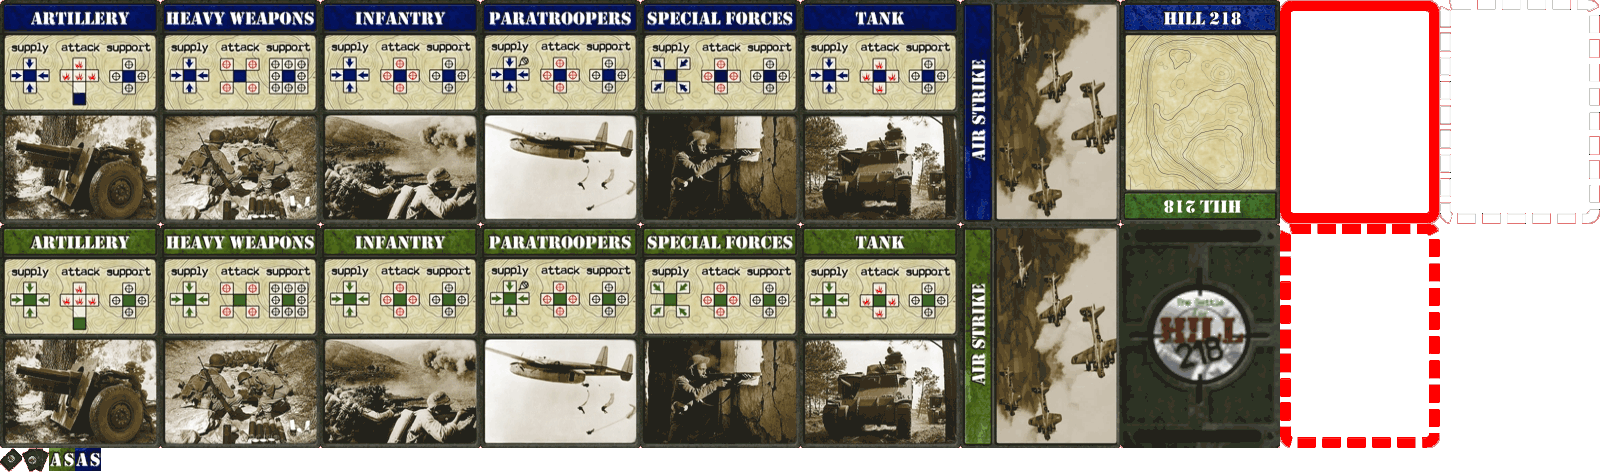
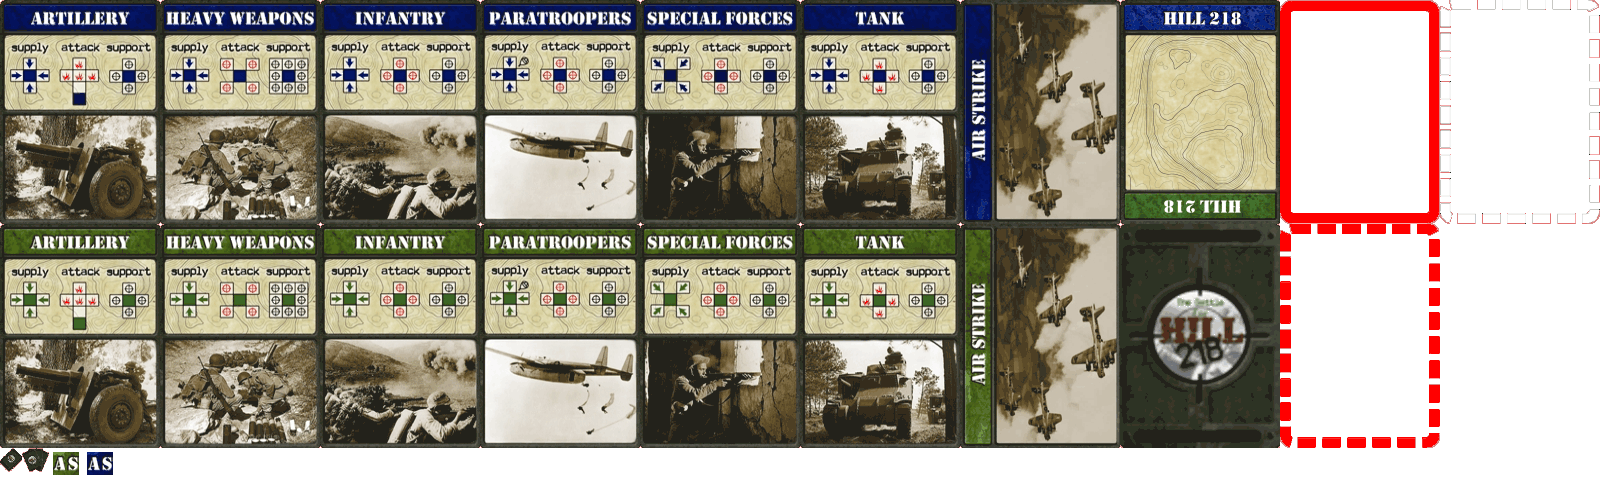
General UI changes and move air strikes to player board

diff --git a/battleforhilldhau.js b/battleforhilldhau.js
@@ -44,28 +44,22 @@ function (dojo, declare, lang, dom, query, array, domConstruct, domClass, domGeo
             for (var id in players) {
                 if (players.hasOwnProperty(id)) {
                     var player = players[id];
-                    if (id.toString() === this.player_id.toString()) {
-                        this.setupCurrentPlayerCards(player);
-                    }
                     dojo.place(this.format_block('jstpl_counter_icons', {}), this.getPlayerBoardNode(id));
                     this.updateDeckCount(id, player.deckSize);
                     this.updateHandCount(id, player.handSize);
                     this.updateAirStrikeCount(id, player.numAirStrikes);
+                    if (id.toString() === this.player_id.toString()) {
+                        this.setupCurrentPlayerCards(player);
+                    }
                 }
             }
         },
 
         setupCurrentPlayerCards: function(data) {
-            var cardsContainer = this.getCurrentPlayerCardsNode();
-
             // Air strikes
-            var airStrikeCards = array.filter(data.cards, function(card) { return card.type === 'air-strike'; });
-            array.forEach(airStrikeCards, lang.hitch(this, function(card) {
-                dojo.place(
-                    this.createCurrentPlayerAirStrikeCard(card, data.color),
-                    query(cardsContainer).query('.air-strikes').pop()
-                );
-            }));
+            var airStrikeIds = array.filter(data.cards, function(card) { return card.type === 'air-strike'; })
+                .map(function(card) { return card.id; });
+            this.getAirStrikeDeckNodeList(this.player_id).data('ids', airStrikeIds);
 
             // Hand
             var handCards = array.filter(data.cards, function(card) { return card.type !== 'air-strike'; });
@@ -120,13 +114,16 @@ function (dojo, declare, lang, dom, query, array, domConstruct, domClass, domGeo
 
         onEnterPlayCard: function(possiblePlacementsByCardId) {
             this.possiblePlacementsByCardId = possiblePlacementsByCardId;
-            this.enablePlayableCardsClick(
+
+            this.enableHandCardsClick(
                 this.onHandCardPlayClick,
+                // TODO: Change to jstpl once refactor in a way that can
                 '<div>\
                     <strong>Play this card on the battlefield</strong>\
                     <div class="tooltip-card {cardType} color-{cardColor}"></div>\
                 </div>',
-                'Deselect this card'
+                'Deselect this card',
+                true
             );
 
             var _this = this;
@@ -134,6 +131,18 @@ function (dojo, declare, lang, dom, query, array, domConstruct, domClass, domGeo
                 '.battlefield-position.clickable:click',
                 function() { lang.hitch(_this, _this.onPlacePositionClick)({target: this}); }
             );
+
+            var airStrikeNode = this.getAirStrikeDeckNodeList(this.player_id);
+            var airStrikeIds = airStrikeNode.data('ids')[0];
+            if (airStrikeIds.length > 0) {
+                airStrikeNode.addClass('clickable');
+                airStrikeNode.on('click', lang.hitch(this, function() {
+                    var remainingIds = this.getAirStrikeDeckNodeList(this.player_id).data('ids')[0];
+                    if (remainingIds.length > 0) {
+                        this.playCard(remainingIds[0]);
+                    }
+                }));
+            }
         },
 
         onEnterChooseAttack: function(possiblePlacements) {
@@ -235,8 +244,8 @@ function (dojo, declare, lang, dom, query, array, domConstruct, domClass, domGeo
             return query('#overall_player_board_' + playerId).query('.deck-count-icon').pop();
         },
 
-        getAirStrikeDeckNode: function(playerId) {
-            return query('#overall_player_board_' + playerId).query('.air-strike-count-icon').pop();
+        getAirStrikeDeckNodeList: function(playerId) {
+            return query('#overall_player_board_' + playerId).query('.air-strike-count-icon');
         },
 
         getPlayerHandCardsIconNode: function(playerId) {
@@ -255,8 +264,14 @@ function (dojo, declare, lang, dom, query, array, domConstruct, domClass, domGeo
             return query(this.getCurrentPlayerCardsNode()).query('.playable-card');
         },
 
-        getCurrentPlayerSelectedPlayableCardNodeList: function() {
-            return this.getCurrentPlayerPlayableCardNodeList().filter('.selected');
+        getCurrentPlayerSelectedCardIds: function() {
+            var selectedIds = this.getCurrentPlayerPlayableCardNodeList().filter('.selected').attr('data-id');
+            var airStrikeNodeList = this.getAirStrikeDeckNodeList(this.player_id);
+            var airStrikeIds = airStrikeNodeList.data('ids')[0];
+            if (domClass.contains(airStrikeNodeList.pop(), 'selected') && airStrikeIds.length > 0) {
+                selectedIds.push(airStrikeIds[0]);
+            }
+            return selectedIds;
         },
 
         createHiddenPlayerAirStrikeCard: function(color) {
@@ -264,9 +279,9 @@ function (dojo, declare, lang, dom, query, array, domConstruct, domClass, domGeo
             return domConstruct.toDom(this.format_block('jstpl_opponent_air_strike_card', card));
         },
 
-        createCurrentPlayerAirStrikeCard: function(card, color) {
-            var coloredCard = lang.mixin({}, card, {color: color});
-            return domConstruct.toDom(this.format_block('jstpl_air_strike_card', coloredCard));
+        createCurrentPlayerAirStrikeCard: function(color) {
+            var card = {type: 'air-strike', color: color};
+            return domConstruct.toDom(this.format_block('jstpl_air_strike_card', card));
         },
 
         createCurrentPlayerHandCard: function(card, color) {
@@ -356,15 +371,8 @@ function (dojo, declare, lang, dom, query, array, domConstruct, domClass, domGeo
 
         ///////////////////////////////////////////////////
         // Interaction utility methods
-        enableHandCardsClick: function(handler, tooltip, selectedTooltip) {
-            this.enableCardsClick(handler, '.hand-cards', tooltip, selectedTooltip);
-        },
-
-        enablePlayableCardsClick: function(handler, tooltip, selectedTooltip, tooltipIsHtml) {
-            this.enableCardsClick(handler, null, tooltip, selectedTooltip, tooltipIsHtml);
-        },
-
-        enableCardsClick: function(handler, subSelector, tooltip, selectedTooltip, tooltipIsHtml) {
+        enableHandCardsClick: function(handler, tooltip, selectedTooltip, tooltipIsHtml) {
+            var subSelector = '.hand-cards';
             var cardsContainer = this.getCurrentPlayerCardsNode();
             if (cardsContainer === null) {
                 return;
@@ -491,7 +499,7 @@ function (dojo, declare, lang, dom, query, array, domConstruct, domClass, domGeo
                 return;
             }
 
-            var selectedIds = this.getCurrentPlayerSelectedPlayableCardNodeList().attr('data-id');
+            var selectedIds = this.getCurrentPlayerSelectedCardIds();
             // TODO: Where should this business logic go?
             if (selectedIds.length !== 2) {
                 this.showMessage( _('You must select exactly 2 cards to return'), 'error');
@@ -527,21 +535,34 @@ function (dojo, declare, lang, dom, query, array, domConstruct, domClass, domGeo
 
         onHandCardPlayClick: function(e) {
             var clickedCard = e.target;
-            this.getCurrentPlayerSelectedPlayableCardNodeList().forEach(function(card) {
-                if (card !== clickedCard) {
+            this.playCard(query(clickedCard).attr('data-id')[0]);
+        },
+
+        playCard: function(cardId) {
+            this.getCurrentPlayerPlayableCardNodeList().forEach(function(card) {
+                if (query(card).attr('data-id')[0] === cardId) {
+                    query(card).toggleClass('selected');
+                } else {
                     query(card).removeClass('selected');
                 }
             });
-            query(clickedCard).toggleClass('selected');
+
+            var airStrikeNodeList = this.getAirStrikeDeckNodeList(this.player_id);
+            var airStrikeIds = airStrikeNodeList.data('ids')[0];
+            if (airStrikeIds.indexOf(cardId) >= 0) {
+                airStrikeNodeList.toggleClass('selected');
+            } else {
+                airStrikeNodeList.removeClass('selected');
+            }
 
             this.deactivateAllPlacementPositions();
-            var selectedIds = this.getCurrentPlayerSelectedPlayableCardNodeList().attr('data-id');
+            var selectedIds = this.getCurrentPlayerSelectedCardIds();
             if (selectedIds.length === 0) {
                 return;
             }
 
-            var cardId = selectedIds.pop();
-            var possiblePlacements = this.possiblePlacementsByCardId[cardId];
+            var selectedId = selectedIds.pop();
+            var possiblePlacements = this.possiblePlacementsByCardId[selectedId];
             array.forEach(
                 possiblePlacements,
                 lang.hitch(this, function(possiblePlacement) {
@@ -555,7 +576,7 @@ function (dojo, declare, lang, dom, query, array, domConstruct, domClass, domGeo
                 return;
             }
 
-            var id = this.getCurrentPlayerSelectedPlayableCardNodeList().attr('data-id').pop();
+            var id = this.getCurrentPlayerSelectedCardIds()[0];
             var position = query(e.target);
             var x = position.attr('data-x').pop();
             var y = position.attr('data-y').pop();
@@ -678,7 +699,7 @@ function (dojo, declare, lang, dom, query, array, domConstruct, domClass, domGeo
 
             var x = notification.args.x;
             var y = notification.args.y;
-            var airStrikeDeckNode = this.getAirStrikeDeckNode(playerId);
+            var airStrikeDeckNode = this.getAirStrikeDeckNodeList(playerId).pop();
             var airStrikeCard = this.createHiddenPlayerAirStrikeCard(notification.args.playerColor);
             var position = this.getOrCreatePlacementPosition(x, y);
 
@@ -691,15 +712,23 @@ function (dojo, declare, lang, dom, query, array, domConstruct, domClass, domGeo
 
         notif_iPlayedAirStrike: function(notification) {
             var cardId = notification.args.cardId;
-            var cardNode = this.getCurrentPlayerPlayableCardNodeByCardId(cardId);
+            var airStrikesNode = this.getAirStrikeDeckNodeList(this.player_id);
+            var airStrikeIds = airStrikesNode.data('ids')[0];
+            var idIndex = airStrikeIds.indexOf(cardId);
+            if (idIndex >= 0) {
+                airStrikeIds.splice(idIndex, 1);
+                airStrikesNode.data('ids', airStrikeIds);
+            }
             var x = notification.args.x;
             var y = notification.args.y;
 
             var position = this.getOrCreatePlacementPosition(x, y);
-            this.slideToObjectAndDestroy(this.prepareForAnimation(cardNode), position, SLIDE_ANIMATION_DURATION);
-            setTimeout(lang.hitch(this, function() {
-                dojo.destroy(position);
-            }), SLIDE_ANIMATION_DURATION);
+            var cardNode = this.createCurrentPlayerAirStrikeCard(notification.args.playerColor);
+            this.slideNewElementTo(airStrikesNode.pop(), cardNode, position)
+                .on('End', function() {
+                    dojo.destroy(cardNode);
+                    dojo.destroy(position);
+                });
         },
 
         notif_cardsDrawn: function(notification) {

diff --git a/battleforhilldhau.css b/battleforhilldhau.css
@@ -6,25 +6,17 @@
     overflow: hidden;
 }
 #players-panel {
-    width: 100px;
-    float: right;
+    width: auto;
 }
 #battlefield-panel {
     width: auto;
     overflow: hidden;
-    margin-right: 110px;
-}
-#battlefield-panel.spectator-view {
-    margin-right: 0;
 }
 
 /* Hands */
-.player-cards .air-strikes {
-
-}
 .player-cards .playable-card {
-    display: block;
-    margin-bottom: 4px;
+    display: inline-block;
+    margin-right: 4px;
 }
 .clickable .playable-card {
     cursor: pointer;
@@ -135,19 +127,25 @@
     background-image: url(img/cards.png);
     background-repeat: no-repeat;
 }
-#player_board_inner_3b550c .air-strike-count-icon {
+.air-strike-count-icon {
     display: inline-block;
     width: 26px;
     height: 23px;
-    background-position: -49px -448px;
+    border: 4px solid transparent;
+}
+.air-strike-count-icon.clickable {
+    cursor: pointer;
+}
+.air-strike-count-icon.clickable.selected {
+    border: 4px dashed red;
+}
+#player_board_inner_3b550c .air-strike-count-icon {
+    background-position: -53px -452px;
     background-image: url(img/cards.png);
     background-repeat: no-repeat;
 }
 #player_board_inner_04237b .air-strike-count-icon {
-    display: inline-block;
-    width: 26px;
-    height: 23px;
-    background-position: -75px -448px;
+    background-position: -87px -452px;
     background-image: url(img/cards.png);
     background-repeat: no-repeat;
 }

diff --git a/battleforhilldhau.game.php b/battleforhilldhau.game.php
@@ -453,7 +453,10 @@ SQL
             "SELECT id, type FROM playable_card WHERE player_id = {$playerId} AND id IN ({$idList})"
         );
         if (count($returnCards) !== Hill218Setup::NUMBER_OF_INITIAL_CARDS_TO_RETURN) {
-            throw new BgaUserException("Card no longer playable");
+            throw new BgaUserException('Card no longer playable');
+        }
+        if (F\contains(F\pluck($returnCards, 'type'), 'air-strike')) {
+            throw new BgaUserException('Can\'t return Air Strikes');
         }
         self::DBQuery("DELETE FROM playable_card WHERE id IN ({$idList})");
 
@@ -572,6 +575,7 @@ SQL
             'iPlayedAirStrike',
             '',
             [
+                'playerColor' => $player['player_color'],
                 'cardId' => $cardId,
                 'x' => $position->getX(),
                 'y' => $position->getY()

diff --git a/tests/TheBattleForHill218/Tests/ReturnToDeckTest.php b/tests/TheBattleForHill218/Tests/ReturnToDeckTest.php
@@ -24,7 +24,7 @@ class ReturnToDeckTest extends TestCase
             ->createActionInstanceForCurrentPlayer(66)
             ->stubArg('ids', '3,4');
 
-        $action->returnToDeck([3, 4]);
+        $action->returnToDeck();
 
         assertThat(
             $this->table->fetchDbRows('deck_card', ['player_id' => 66]),
@@ -54,5 +54,17 @@ class ReturnToDeckTest extends TestCase
                 ])
             )
         );
+    }
+
+    public function testReturnToDeckAirStrikesIsInvalid()
+    {
+        $this->expectException('BgaUserException');
+
+        $action = $this->table
+            ->setupNewGame()
+            ->createActionInstanceForCurrentPlayer(66)
+            ->stubArg('ids', '1,2');
+
+        $action->returnToDeck();
     }
 }

diff --git a/battleforhilldhau.view.php b/battleforhilldhau.view.php
@@ -24,7 +24,7 @@ class view_battleforhilldhau_battleforhilldhau extends game_view
 
         // Spectator
         if (!isset($players[$currentPlayerId])) {
-            $this->tpl['BATTLEFIELD_PANEL_CLASS'] = 'spectator-view';
+            $this->tpl['GAME_CONTAINER_CLASS'] = 'spectator-view';
             return;
         }
 

diff --git a/README.md b/README.md
@@ -68,13 +68,6 @@ following command which compiles:
 `classpreloader.php compile --config=build-config.csv.php --output=build/out.php --strip_comments=1`
 
 
-## Current Studio Versions
-
- - OS: Ubuntu 16.04.1
- - MySQL: 5.7.18-0ubuntu0.16.04.1
- - PHP: 7.0.18-0ubuntu0.16.04.1
-
-
 ## Known Workbench Issues
 
  - When using the watch command - a changed file during the initial deploy won't redeploy
@@ -84,3 +77,34 @@ following command which compiles:
 ## Git Pre-Commit Hook
 
 Available in `etc/pre-commit`. Runs an auto style detection + fixer.
+
+
+## TODO
+ - remove selected border on air strike once played. Probably just a matter of full cleanup onLeave
+  
+ - tooltips on cards -> I think you should always display the tooltips when hovering over the card (not just for cards 
+   in hand when it's your turn to play)
+  
+ - there should be tooltips on player panel icons (air strikes, hand, player deck)
+  
+ - log messages could be more detailed (indicating the attacking card, the attacked card, then the destroyed card)
+ 
+ - display the cards on the battlefield at a bigger size. The information from the cards are too important
+
+ - when destroying a card, it would be nice to have the explosion symbol briefly displayed over it :)
+  
+ - It would be easier if the battlefield was always shown from the same side, no matter which color you are playing. By 
+   this I mean that if I'm red, I play my cards from the bottom, if I'm blue, I still play my cards from the bottom. You 
+   would have to do some magic with the view.php and the .tpl file
+
+ - I would rotate the other players' cards to be upside down, because honestly I don't care about the name, I care about 
+   which unit attacks where. This is especially important for the artillery that doesn't have a mirror pattern for its 
+   attack.
+
+ - make sure the cards are inside the "map_scrollable" div. Currently you cannot move the map around when you click on a 
+   card because they are in the "map_scrollable_oversurface".
+
+ - I think it would be very useful to have a zoom functionality on the play zone (you can get a readonly copy of Gaia 
+   project from the project page to check out how to do that)
+ 
+ - at the start of the game having 'player 1 base' & 'player 2 base' displayed like in the rulebook would help beginners
